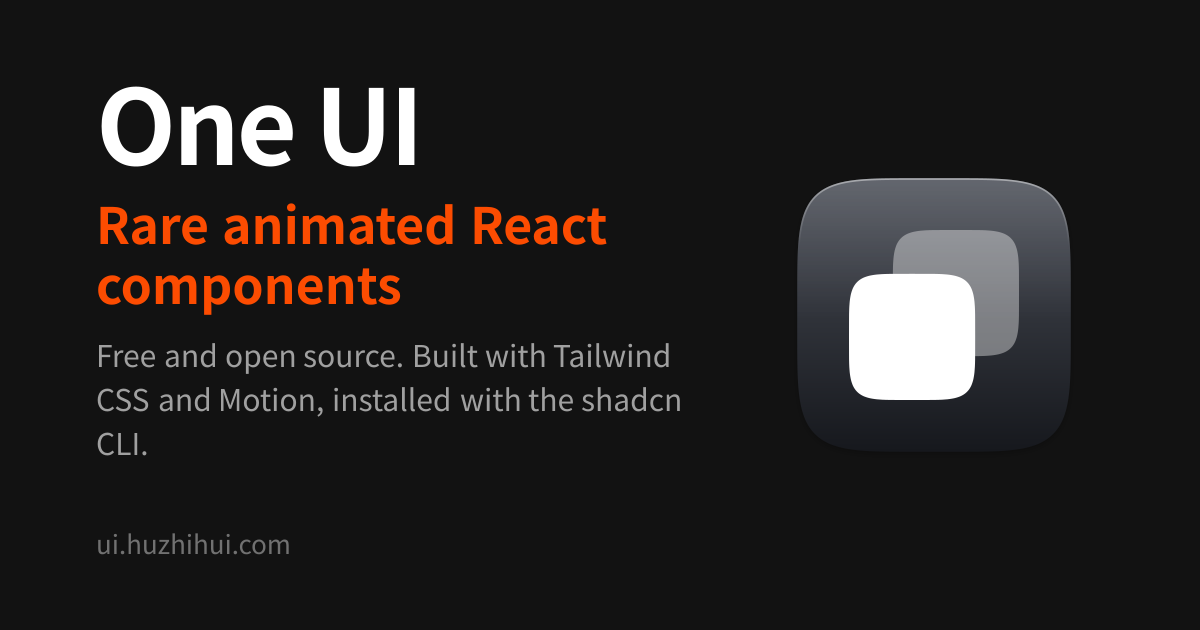
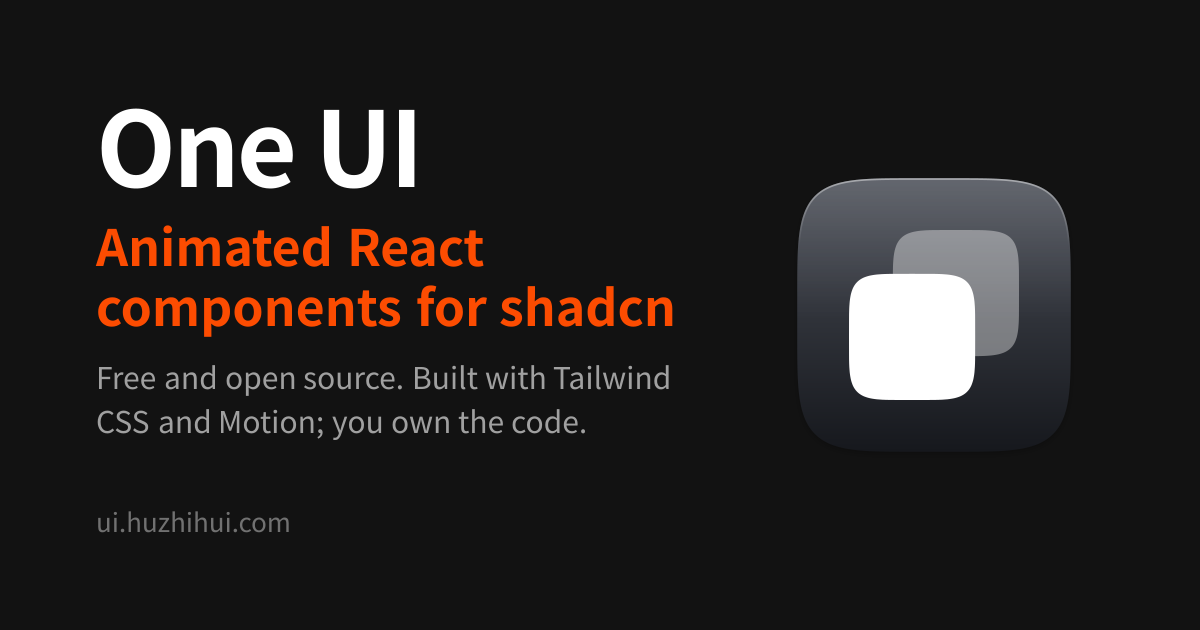
feat(traffic): enhance caching logic and add stale state handling for traffic sources

Changed region(s): [[0.0617, 0.3317, 0.5858, 0.7238], [0.0617, 0.1206, 0.37, 0.3016], [0.0617, 0.8143, 0.2467, 0.8746]]

diff --git a/lib/traffic/cache.ts b/lib/traffic/cache.ts
@@ -40,12 +40,21 @@ async function writeEdge(key: string, value: unknown, ttl: number) {
   } catch {}
 }
 
+type Options = {
+  ttl: number;
+  // after a failure, no upstream call for this long; protects rate-limited apis like bing
+  backoff?: number;
+};
+
+// last good result, served with `stale: true` while the upstream keeps failing
+const LAST_GOOD_TTL = 7 * 86_400;
+
 // concurrent misses share one upstream call, so page views never spend api quota
-export async function cached<T>(
+export async function cached<T extends object>(
   key: string,
-  ttlSeconds: number,
+  { ttl, backoff = 600 }: Options,
   load: () => Promise<T>,
-): Promise<T> {
+): Promise<T & { stale?: boolean }> {
   const hit = memory.get(key);
   if (hit && hit.expires > Date.now()) return hit.value as T;
 
@@ -58,10 +67,25 @@ export async function cached<T>(
       memory.set(key, { value: edge, expires: Date.now() + 30_000 });
       return edge;
     }
-    const value = await load();
-    memory.set(key, { value, expires: Date.now() + ttlSeconds * 1000 });
-    await writeEdge(key, value, ttlSeconds);
-    return value;
+    try {
+      const failed = await readEdge<{ message: string }>(`${key}:failed`);
+      if (failed) throw new Error(failed.message);
+      const value = await load();
+      memory.set(key, { value, expires: Date.now() + ttl * 1000 });
+      await Promise.all([
+        writeEdge(key, value, ttl),
+        writeEdge(`${key}:last`, value, LAST_GOOD_TTL),
+      ]);
+      return value;
+    } catch (error) {
+      const message = error instanceof Error ? error.message : String(error);
+      await writeEdge(`${key}:failed`, { message }, backoff);
+      const last = await readEdge<T>(`${key}:last`);
+      if (last === undefined) throw error;
+      const stale = { ...last, stale: true, staleReason: message };
+      memory.set(key, { value: stale, expires: Date.now() + 60_000 });
+      return stale;
+    }
   })();
 
   inflight.set(key, task);

diff --git a/app/api/traffic/[source]/route.ts b/app/api/traffic/[source]/route.ts
@@ -14,6 +14,8 @@ export const dynamic = "force-dynamic";
 
 const FIVE_MINUTES = 300;
 const ONE_HOUR = 3600;
+// bing only updates daily and throttles shared cloudflare ips, so ask it rarely
+const SIX_HOURS = 6 * ONE_HOUR;
 
 const json = (body: unknown, status = 200, maxAge = 0) =>
   Response.json(body, {
@@ -49,15 +51,17 @@ export async function GET(
       case "cloudflare": {
         const settings = config.cloudflare;
         if (!settings) return notConfigured(source);
-        const body = await cached(`cloudflare:${range}`, FIVE_MINUTES, () =>
-          cloudflareStats(settings, range),
+        const body = await cached(
+          `cloudflare:${range}`,
+          { ttl: FIVE_MINUTES },
+          () => cloudflareStats(settings, range),
         );
         return json(body, 200, 60);
       }
       case "ga": {
         const settings = config.ga;
         if (!settings) return notConfigured(source);
-        const body = await cached(`ga:${range}`, FIVE_MINUTES, () =>
+        const body = await cached(`ga:${range}`, { ttl: FIVE_MINUTES }, () =>
           gaStats(settings, range),
         );
         return json(body, 200, 60);
@@ -65,13 +69,19 @@ export async function GET(
       case "gsc": {
         const settings = config.gsc;
         if (!settings) return notConfigured(source);
-        const body = await cached("gsc", ONE_HOUR, () => gscStats(settings));
+        const body = await cached("gsc", { ttl: ONE_HOUR }, () =>
+          gscStats(settings),
+        );
         return json(body, 200, 300);
       }
       case "bing": {
         const settings = config.bing;
         if (!settings) return notConfigured(source);
-        const body = await cached("bing", ONE_HOUR, () => bingStats(settings));
+        const body = await cached(
+          "bing",
+          { ttl: SIX_HOURS, backoff: ONE_HOUR },
+          () => bingStats(settings),
+        );
         return json(body, 200, 300);
       }
     }

diff --git a/components/Footer.tsx b/components/Footer.tsx
@@ -7,6 +7,8 @@ import { GithubLogo, type LogoProps } from "./logos";
 import { useI18n } from "@/components/i18n/I18nProvider";
 
 const GITHUB_URL = "https://github.com/zhihui-hu/one-ui";
+const DMCA_STATUS_URL =
+  "https://www.dmca.com/Protection/Status.aspx?ID=7ce9d68a-4aef-4050-8f88-df33bdeac077&refurl=https://ui.huzhihui.com";
 
 type FooterLink = {
   label: string;
@@ -136,6 +138,26 @@ export default function Footer() {
                 )}
               </Fragment>
             ))}
+            <span
+              aria-hidden="true"
+              className="text-black/25 dark:text-white/25"
+            >
+              &middot;
+            </span>
+            <a
+              href={DMCA_STATUS_URL}
+              target="_blank"
+              rel="noreferrer"
+              title="DMCA.com Protection Status"
+              className="flex h-4.25 w-fit overflow-hidden rounded-[3px] font-runde text-[9px] font-bold uppercase leading-none tracking-[0.06em] shadow-[0_0_3px_rgba(0,0,0,0.16)] dark:shadow-[0_0_3px_rgba(0,0,0,0.55)]"
+            >
+              <span className="flex items-center bg-[#ff3300] px-1.5 text-[#282828]">
+                DMCA
+              </span>
+              <span className="flex items-center bg-[#282828] px-1.5 text-[#ff3300]">
+                Protected
+              </span>
+            </a>
           </span>
         </div>
       </div>

diff --git a/components/traffic/parts.tsx b/components/traffic/parts.tsx
@@ -62,7 +62,25 @@ export function PanelState<T>({
       </Message>
     );
   }
-  if (load.state === "ready") return <>{children(load.data as T)}</>;
+  if (load.state === "ready") {
+    const { stale, staleReason } = load.data as {
+      stale?: boolean;
+      staleReason?: string;
+    };
+    return (
+      <>
+        {stale ? (
+          <p
+            className="-mt-1 rounded-xl bg-[#FF9F0A]/10 px-3 py-2 text-xs text-[#B25000] dark:text-[#FFB340]"
+            title={staleReason}
+          >
+            {m.stats.stale}
+          </p>
+        ) : null}
+        {children(load.data as T)}
+      </>
+    );
+  }
   if (load.state === "error") {
     return <Message detail={load.reason}>{m.stats.unavailable}</Message>;
   }

diff --git a/lib/traffic/types.ts b/lib/traffic/types.ts
@@ -24,7 +24,13 @@ export function isTrafficSource(value: unknown): value is TrafficSource {
 
 export type NotConfigured = { configured: false; missing?: string[] };
 
-type Window = {
+type Freshness = {
+  // the upstream failed; this is the last good result
+  stale?: boolean;
+  staleReason?: string;
+};
+
+type Window = Freshness & {
   configured: true;
   // hourly buckets are utc instants, daily ones are yyyy-mm-dd dates
   granularity: "hour" | "day";
@@ -68,7 +74,7 @@ export type GaStats = Window & {
   pages: { path: string; pageViews: number }[];
 };
 
-export type SearchStats = {
+export type SearchStats = Freshness & {
   configured: true;
   days: number;
   start: string;

diff --git a/app/llms.txt/route.ts b/app/llms.txt/route.ts
@@ -30,7 +30,7 @@ export function GET() {
   const body = [
     "# One UI",
     "",
-    "> A shadcn registry of rare, animated React components — frosted-glass, springy, Apple-flavored UI built with Tailwind CSS and Motion (Framer Motion). Every component is free to use and installable with one command via the shadcn CLI.",
+    "> A shadcn registry of animated React components: frosted-glass, springy, Apple-flavored UI built with Tailwind CSS and Motion (Framer Motion). Every component is free to use and installable with one command via the shadcn CLI.",
     "",
     "Install any component into a React / Next.js project:",
     "",
